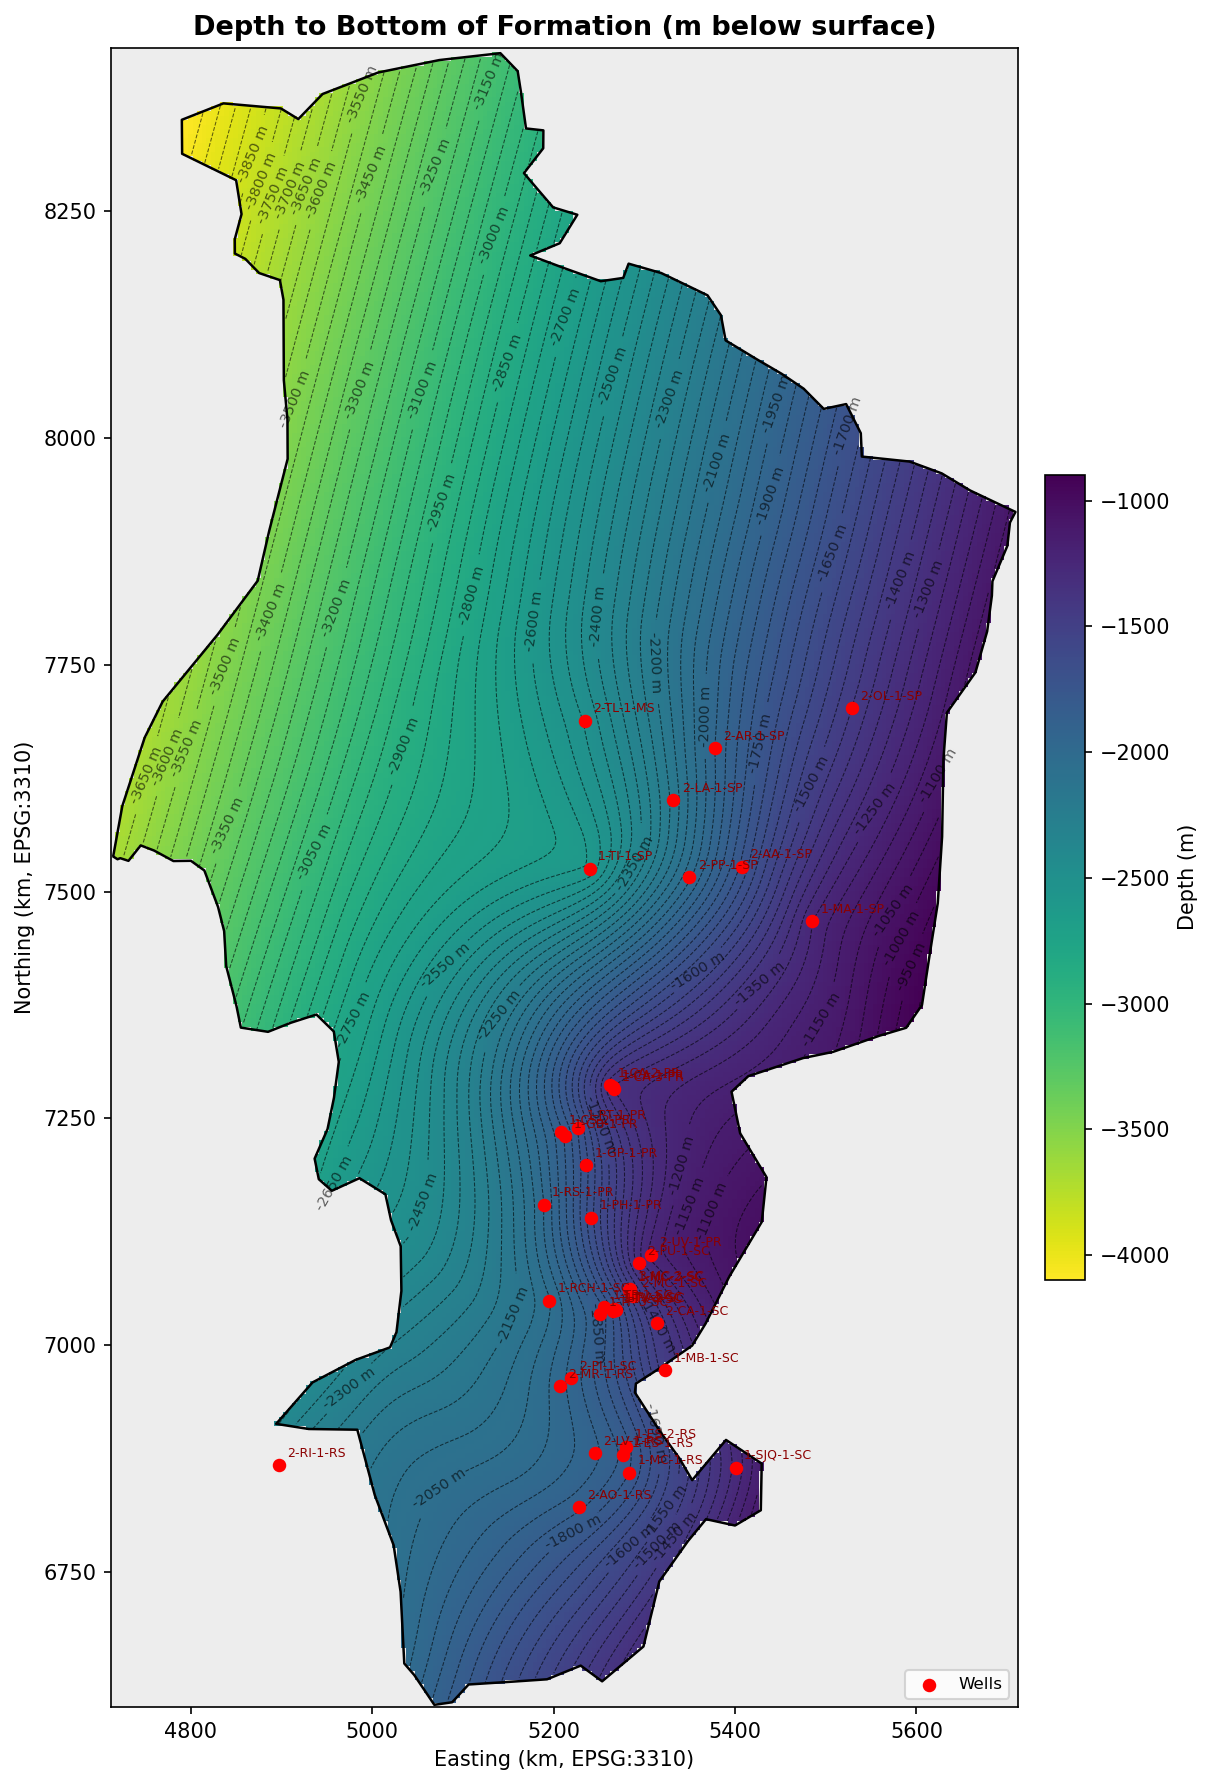
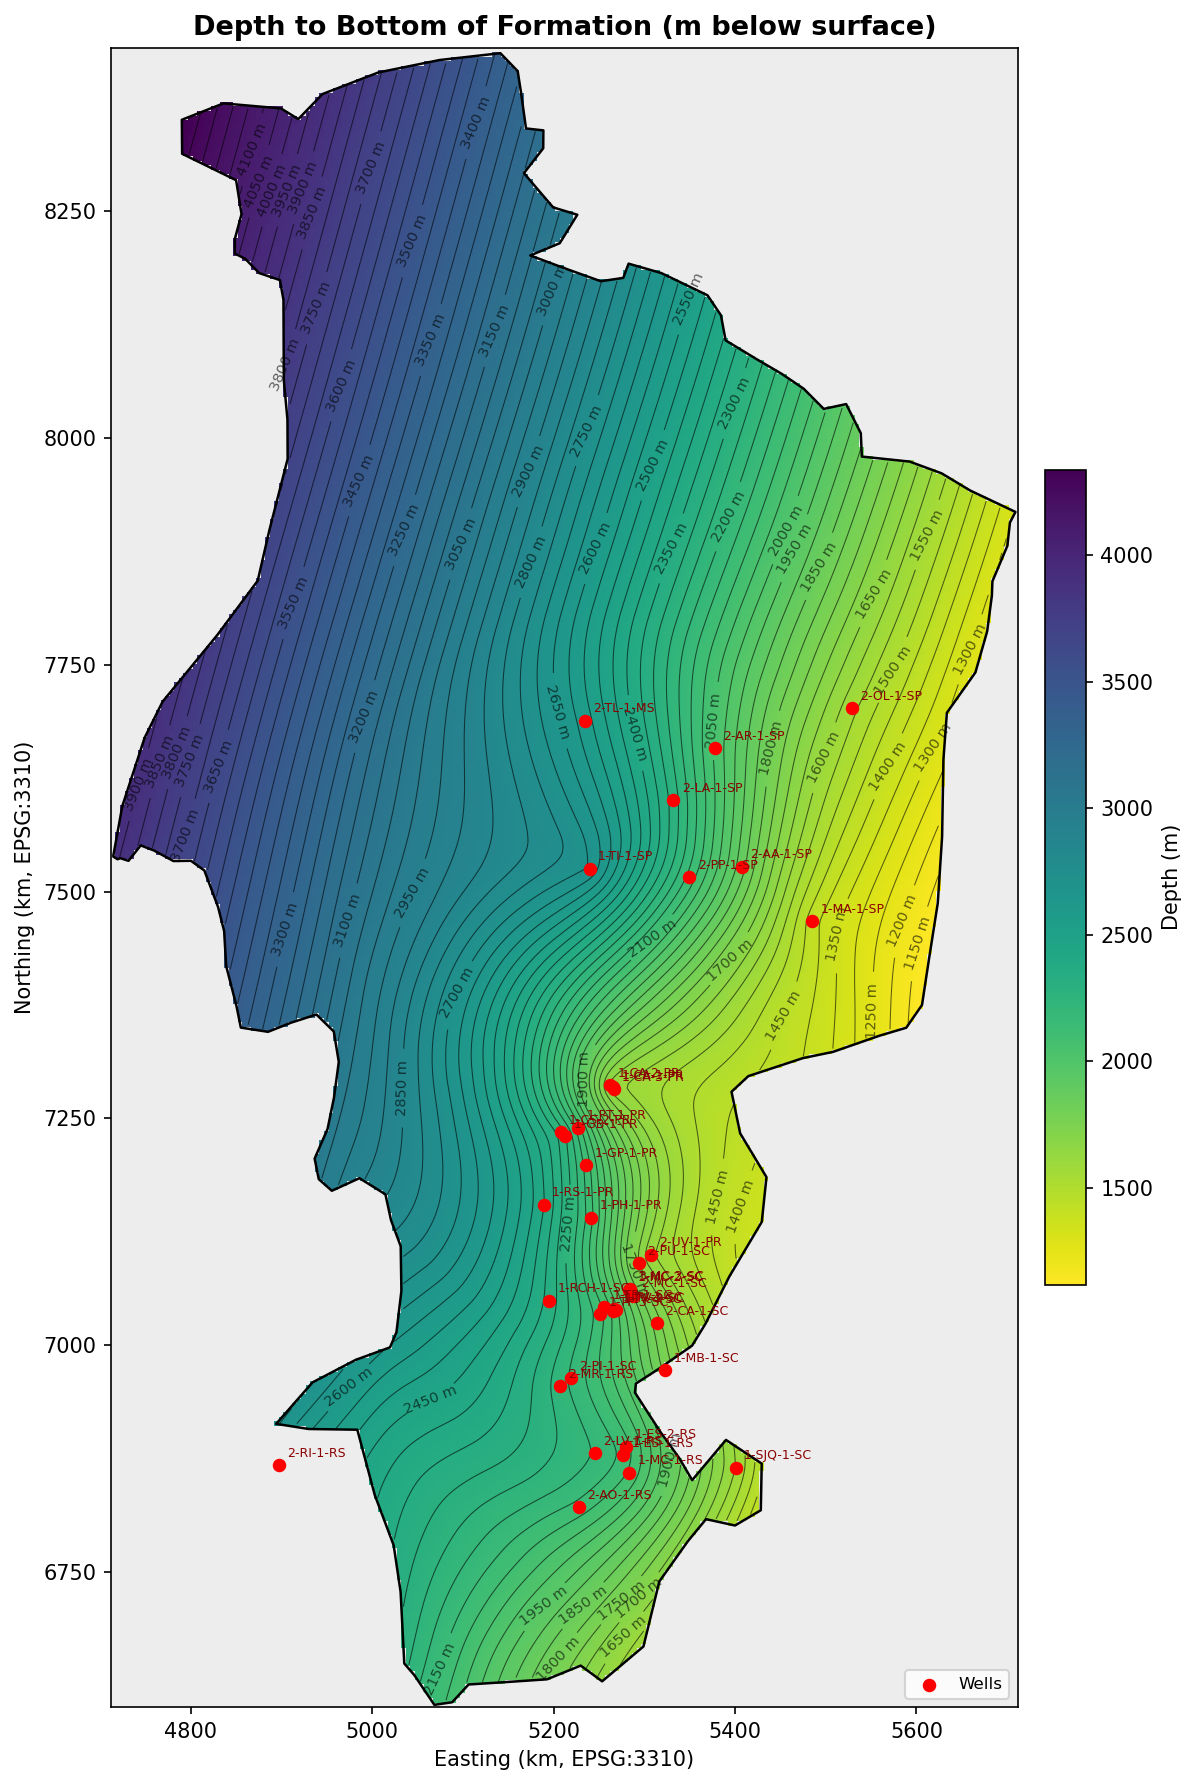
fixed sign convention for depth in dataset (z-coordinate is positive downward)

diff --git a/README.md b/README.md
@@ -135,6 +135,8 @@ Contains the horizon attributes for each well. The first column is the well iden
 | `thickness` | float | metres | Formation thickness (`depth_bot − depth_top`) |
 | `porosity` | float | fraction (0–1) | Vertically-averaged porosity |
 
+> **Depth convention:** all depth values must be **positive downward** (increasing with depth below surface). This is the standard well-log and Eclipse convention used throughout the workflow.
+
 Example row (california, where the ID column is `well_id`):
 ```
 W01,1881,1981,100,0.13
@@ -493,6 +495,10 @@ The output includes the kriging variance (`ss_*` arrays), which is a by-product 
 ## Corner-Point Grid Format
 
 The GRDECL format is the standard grid description file for Eclipse-family reservoir simulators (including OGS, tNavigator, and others). Key conventions used in this implementation:
+
+### Depth convention
+
+All Z-coordinates are **positive downward** — a value of `2000` means 2000 m below the surface datum. This is consistent with the input well CSV, the Eclipse GRDECL format, and standard well-log convention. Never supply negative depth values (elevation-style coordinates) as input.
 
 ### Pillar convention (NW origin)
 

diff --git a/quickstart.md b/quickstart.md
@@ -1,6 +1,6 @@
 # Quickstart Guide
 
-This guide walks you through running the workflow end-to-end on the included California dataset. For full documentation see [README.md](README.md).
+This guide walks you through running the workflow end-to-end on the included Parana Basin dataset. For full documentation see [README.md](README.md).
 
 ## Prerequisites
 
@@ -25,9 +25,9 @@ conda install -c conda-forge numpy pandas geopandas shapely scipy matplotlib pyk
 
 > First-time install may take 2–5 minutes while conda resolves the environment.
 
-## Step 3 — Inspect the sample data (optional)
+## Step 3 — Inspect the sample data
 
-Open `well_data.csv` in any text editor or spreadsheet application to see the 24 sample wells spread across California. Open `config.py` to review the default settings — no changes are needed to run the demo.
+Open `parana_basin_well_data.csv` in any text editor or spreadsheet application to see the 39 sample wells spread across the Parana Basin. Open `config.py` to review the default settings — no changes are needed to run the demo.
 
 ## Step 4 — Run the workflow
 
